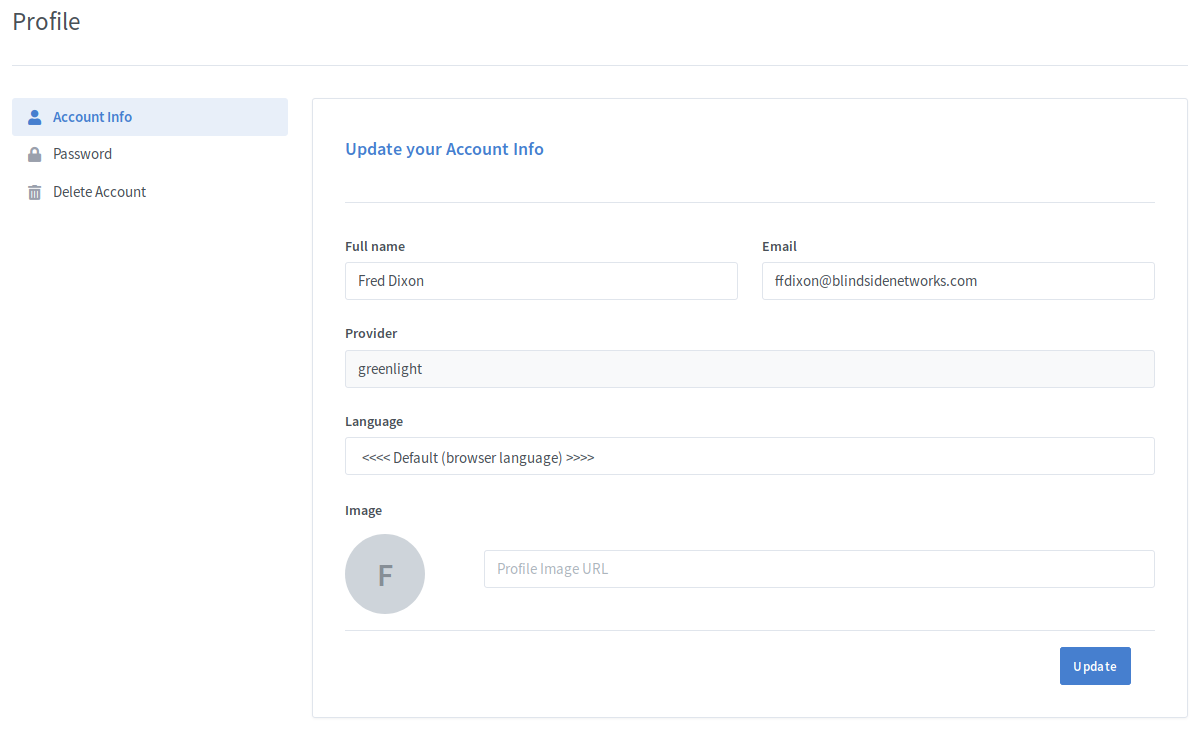
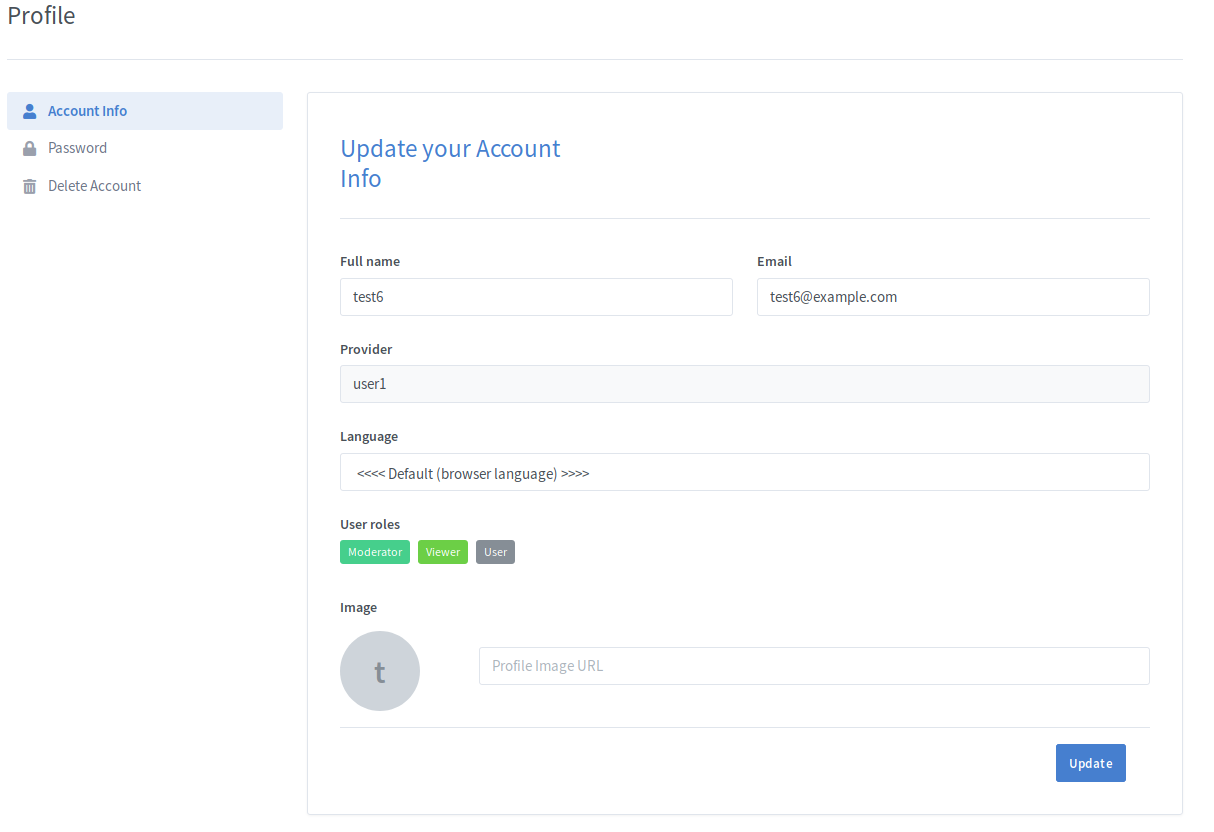
Add documentation for the roles editor

diff --git a/_posts/2019-04-15-gl-admin.md b/_posts/2019-04-15-gl-admin.md
@@ -59,18 +59,6 @@ To filter by the Role, click on any of the Role buttons under the Role Column. T
 
 ![Greenlight Administrator Manage Users Filter](/images/greenlight/admin_manage_users_filter.png)
 
-### Promoting Accounts
-
-To promote an account from a User to an Administrator, select Promote to Admin from the Account Dropdown.
-
-If `ALLOW_MAIL_NOTIFICATIONS` is set to `true` in the `.env` file, then the user will receive an email informing them that they have been promoted.
-
-### Demoting Accounts
-
-To demote an account from an Administrator to a User, select Demote to User from the Account Dropdown.
-
-If `ALLOW_MAIL_NOTIFICATIONS` is set to `true` in the `.env` file, then the user will receive an email informing them that they have been demoted.
-
 ### Deleting Accounts
 
 To delete an account, select Delete from the Account Dropdown. 
@@ -87,7 +75,19 @@ This will remove the account from Greenlight and will also prevent the user from
 
 To edit an account, select Edit for the specified user. This will open the edit user view.
 
-From the edit user view, Administrators are able to edit the name, email, default language, and profile picture for the given account.
+From the edit user view, Administrators are able to edit the name, email, roles, default language, and profile picture for the given account.
+
+### Editing Roles
+
+To edit the role for an account, select Edit for the specified user. This will open the edit user view.
+
+![Greenlight Administrator Edit User Roles](/images/greenlight/admin_edit_user_roles.png)
+
+From the edit user view, Administrators are able to assign and remove roles for the given account. To remove a role click the x beside the role. To add a role select the role from the roles dropdown beneath the role tags.
+
+**NOTE:** Administrators are only able to add or removes roles which have a lower priority than their highest priority role.
+
+**NOTE:** While a user may be assigned multiple roles only the role with the highest priority will be used for determining a user's permissions
 
 ## Server Recordings
 
@@ -202,6 +202,56 @@ By default, users are allowed to create and manage as many rooms as they like. U
 To allow the users to create as many rooms as they would like, select the option furthest to the right (15+).
 
 ![Greenlight Administrator Room Limit](/images/greenlight/admin_room_limit.png)
+
+## User Roles
+
+Through the Roles tab Administrators are able to edit the roles for their site.
+
+![Greenlight Administrator Edit Roles](/images/greenlight/admin_edit_roles.png)
+
+A role's position in the roles list denotes its priority. The higher up on the list the higher the priority of the role.
+
+### Creating a New Role
+
+To create a new role click on the Create a new role button. This will open the create role pop-up where Administrators can specficy the new role's name.
+
+![Greenlight Administrator New Roles](/images/greenlight/admin_new_role.png)
+
+The new role will automatically be created with the second lowest priority only higher than the user role.
+
+### Changing a Role's Priority
+
+To change an existing role's priority drag the role to the position you desire in the list of roles.
+
+**Note:** Administrators are only able to change the priority of roles which have a lower priority than their own.
+
+**Note:** The Admin role must always be the highest priority role and the user role must always be the lowest priority role.
+
+### Editing an Existing Role
+
+To edit the permissions for a role select the role from the list of roles.
+
+![Greenlight Administrator Edit Role Permissions](/images/greenlight/admin_edit_role_permissions.png)
+
+Once the administrator has selected the role they are able to update the name for the role as well as the colour associated with the role.
+
+Administrators are also able to update the permissions for the role. The following section describes what each permission does
+
+| Permission               | Description |
+|:-----------------------|:------------|
+| Can create rooms                                           | This determines whether or not users with this role are able to create their own Greenlight rooms. |
+| Send an email to users when they are assigned this role     | This determines whether or not to send an email to users when they are promoted to this role |
+| Send an email to users when they are removed from this role | This determines whether or not to send an email to users when they are removed from this role |
+| Allow users with this role to edit site settings           | This allows users to access the Server Recordings and Site Settings tabs as if they were administrators |
+| Allow users with this role to edit other roles             | This allows users to access the Roles tab as if they were administrators |
+| Allow users with this role to manage other users           | This allows users to access the Manage Users tab as if they were administrators |
+
+
+**Note:** Administrators are unable to change the name for the user role or any of the permissions associated with the Admin role. Administrators are also only able to edit the permissions for roles with a lower priority than their own role.
+
+### Deleting a Role
+
+To delete a role click the "Delete the role button". For the role to be successfully deleted no users may be assigned to the role. The admin and user roles also can't be deleted.
 
 See also
 
